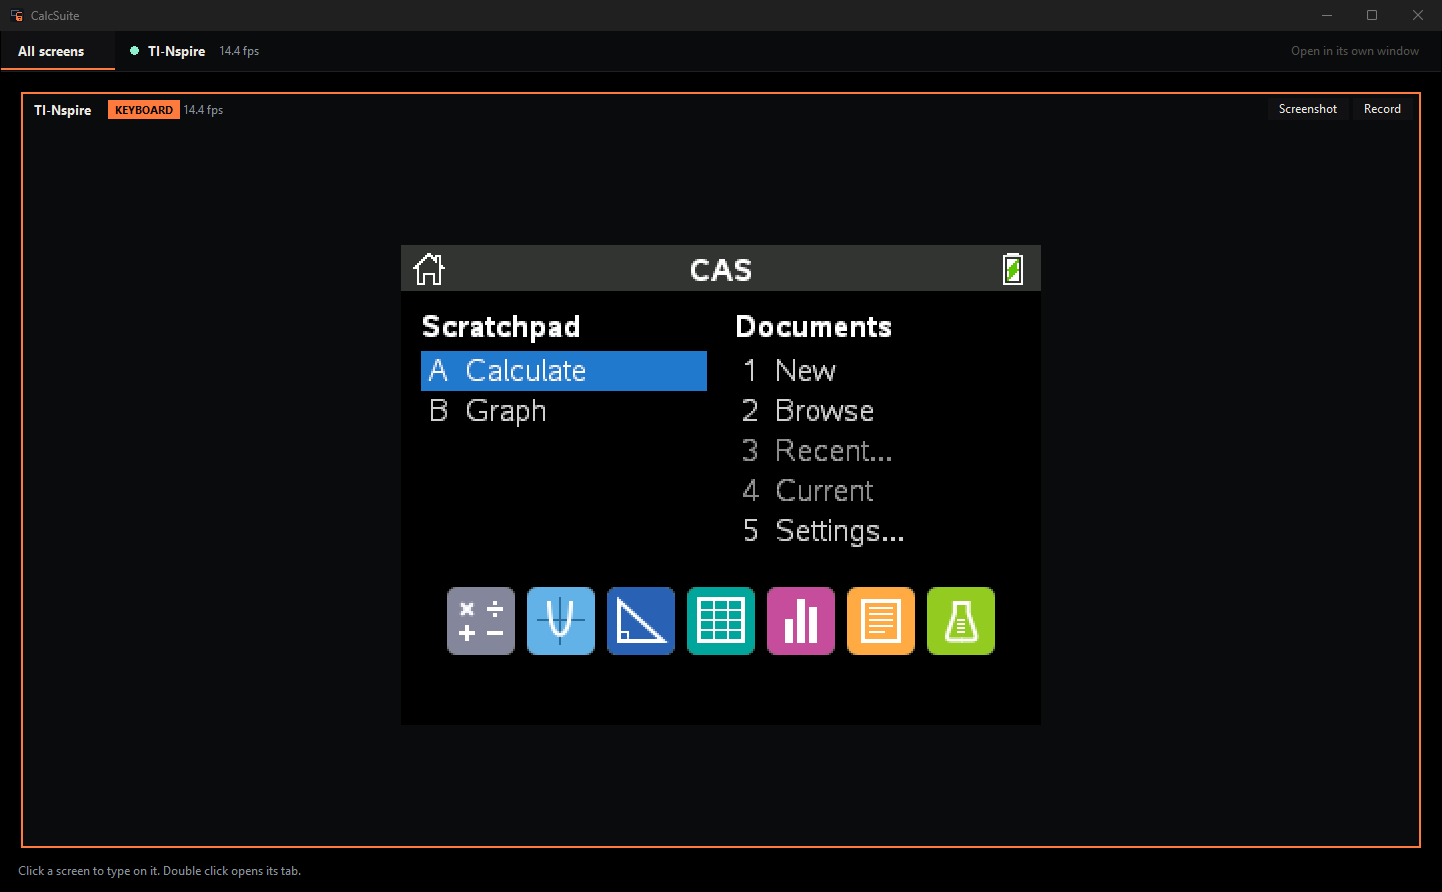
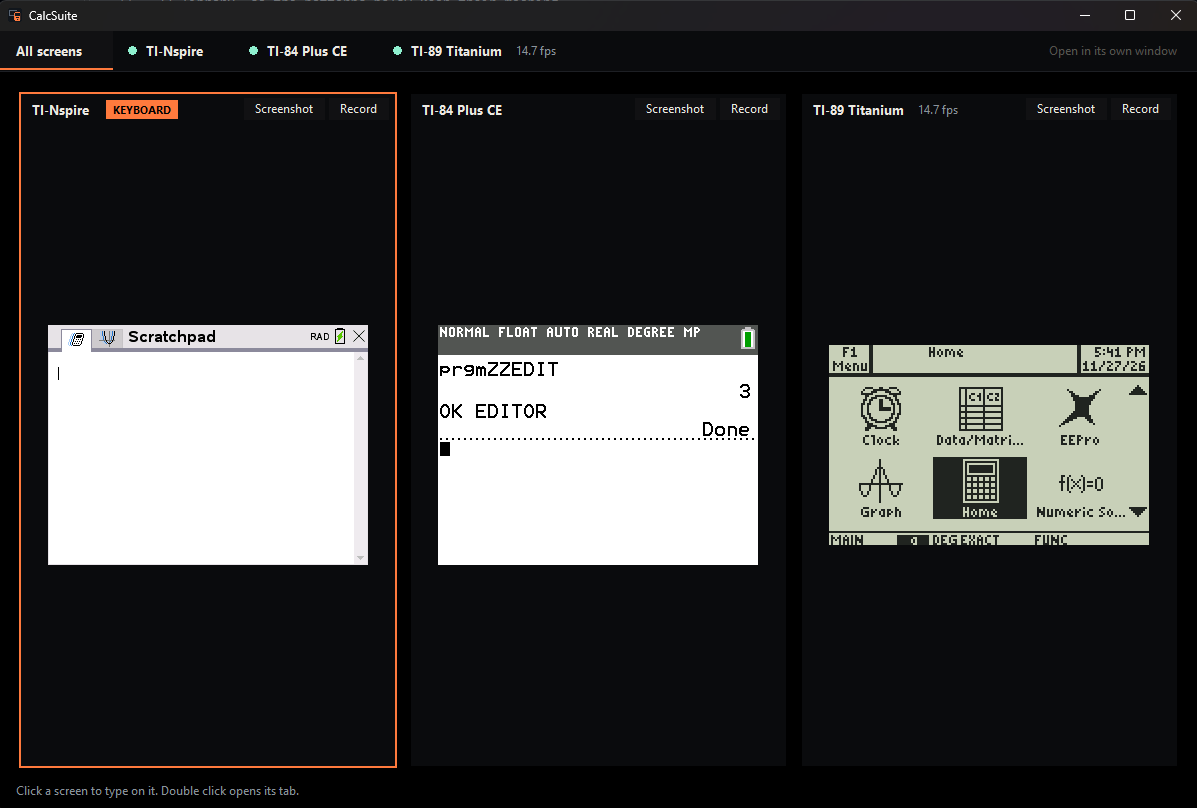
README: All screens with all three calculators

Changed region(s): [[0.0, 0.0, 0.9891, 0.9901], [0.3091, 0.9282, 0.9891, 0.9592]]

diff --git a/README.md b/README.md
@@ -12,7 +12,7 @@ their keys, symbols and text pasted in, screenshots and recordings, programs sen
 files on them, and a guide for writing programs. For the **TI-Nspire CX II** (CAS too), the
 **TI-84 Plus CE** and the **TI-89 Titanium**, several at once.
 
-![CalcSuite showing a TI-Nspire CX II CAS on All screens](docs/img/all-screens.png)
+![CalcSuite showing a TI-Nspire CX II CAS, a TI-84 Plus CE and a TI-89 Titanium side by side on All screens](docs/img/all-screens.png)
 
 ## Get started
 
